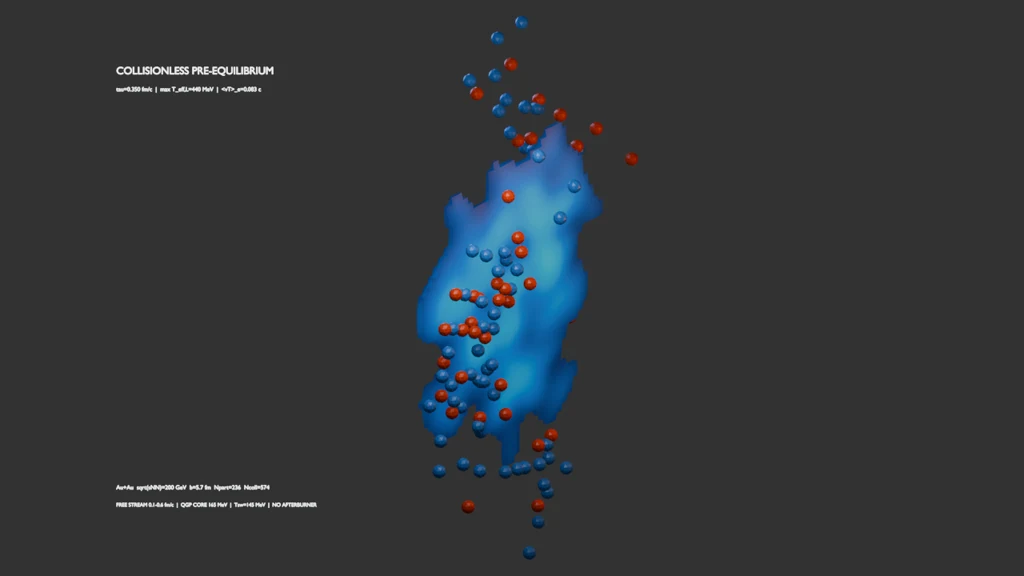
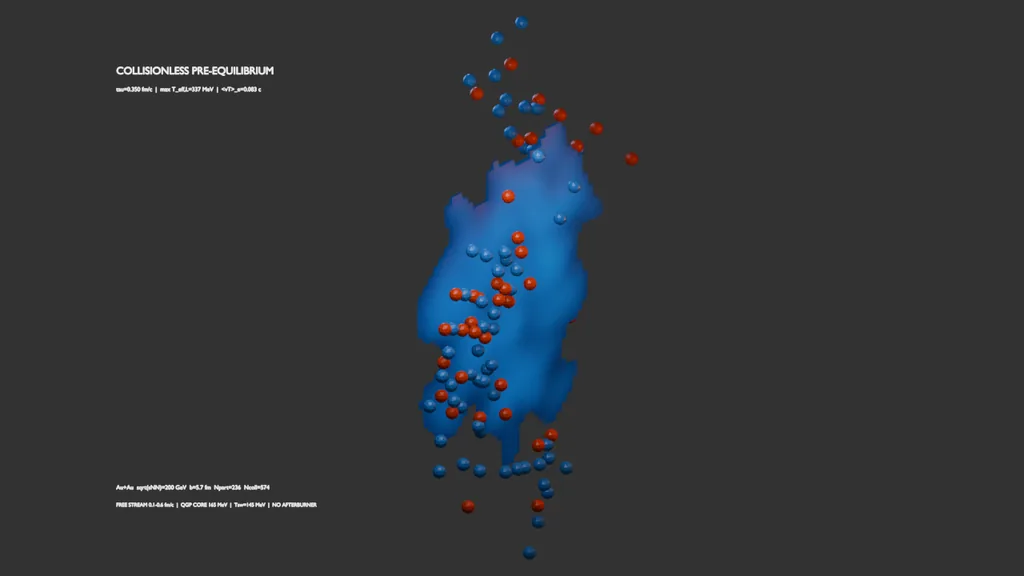
docs: re-render the README images from the corrected event
The three README images still showed the event before the corrections,
including on-screen diagnostics such as max T = 370 MeV and 3524 QGP-core
cells. They are now rendered from the CPU reference cache of this
revision with the Blender 5.1.2 Python module in background mode (Mesa
software OpenGL), using the unchanged scene builder and camera, and
scaled from 1280 x 720 to 1024 x 576 like the originals. The scene
builder's own audit passed. The diagnostics now read max T = 280 MeV and
3349 QGP-core cells at hydrodynamization, and max T_eff,L = 337 MeV at
tau = 0.35 fm/c.

Claude-Session: https://claude.ai/code/session_01VGhvwMmRgVEihU8oDZtHBF

Changed region(s): [[0.4062, 0.3125, 0.5625, 0.7188]]

diff --git a/README.md b/README.md
@@ -20,10 +20,10 @@ The reference event is Au+Au at `sqrt(sNN)=200 GeV`, `b=5.7 fm`, seed 17.
 The bright interior is the hydrodynamic temperature field, the highlighted
 core is `T>=165 MeV`, and the outer contour marks `Tsw=145 MeV`.
 
-The images were rendered before the corrections described in
-[REPRODUCIBILITY.md](REPRODUCIBILITY.md#corrections-in-this-revision). A new
-render shows the same geometry with lower temperatures (at most 280 MeV
-instead of 370 MeV after hydrodynamization) and a smaller `T>=165 MeV` core.
+The images show the corrected event described in
+[REPRODUCIBILITY.md](REPRODUCIBILITY.md#corrections-in-this-revision). The
+on-screen diagnostics match the reference audit; for example, the field peaks
+at 280 MeV right after hydrodynamization.
 
 | Collisionless pre-equilibrium | Sampled hadrons after particlization |
 | --- | --- |

diff --git a/REPRODUCIBILITY.md b/REPRODUCIBILITY.md
@@ -10,7 +10,10 @@ NumPy 2.4.4, and PyTorch 2.15.0 on Linux. The Linux jobs in
 `.github/workflows/tests.yml` check them against the pinned PyTorch 2.11.0
 CPU build through `tests/test_reference_event.py`.
 
-The Blender result was last rendered with:
+The README images were re-rendered from this revision's CPU reference cache
+with the Blender 5.1.2 Python module (`bpy` from PyPI) in background mode on
+Linux, using Mesa software OpenGL, and scaled from 1280 x 720 to 1024 x 576.
+The 13-second animation was last rendered, before the corrections below, with:
 
 - Windows, PowerShell
 - Python 3.13.3
